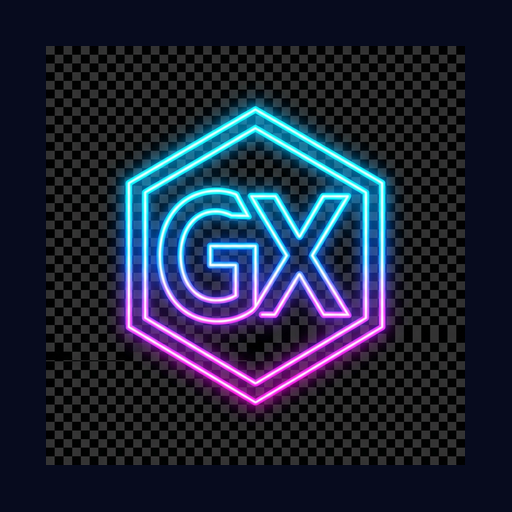
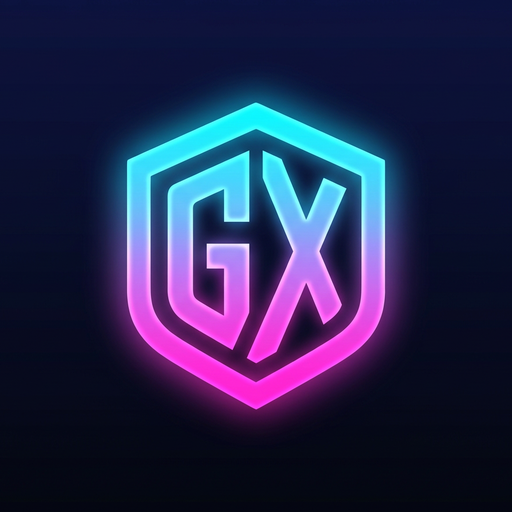
Icone d'application: refonte, fond indigo plein sans damier/transparence
- Generations des icones PWA (64/192/512), apple-touch (180) et favicons (32/48)
  en carre 100% opaque sur fond indigo, blason neon centre (plus de coins blancs
  ni de damier de transparence)
- Fichiers source encombrants et ancien favicon svg supprimes
- Logo des barres aligne sur le meme design

diff --git a/app/layout.tsx b/app/layout.tsx
@@ -63,6 +63,11 @@ export const metadata: Metadata = {
   icons: {
     icon: [
       {
+        url: "/favicon-32.png",
+        sizes: "32x32",
+        type: "image/png"
+      },
+      {
         url: "/goalx-icon-64.png",
         type: "image/png"
       },
@@ -81,7 +86,7 @@ export const metadata: Metadata = {
     ],
 
     apple:
-      "/goalx-icon-192.png"
+      "/apple-touch-icon.png"
   },
 
   other: {
